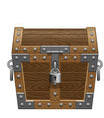
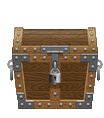
added transparent

diff --git a/main.qml b/main.qml
@@ -16,6 +16,7 @@ ApplicationWindow {
         source: "qrc:/images/stark.png"
         name: "Stark"
         motto: "Winter is Coming"
+        width: mainWindow.width /4.5
     }
     FactionToken
     {
@@ -23,6 +24,7 @@ ApplicationWindow {
         source: "qrc:/images/baratheon.png"
         name: "Baratheon"
         motto: "Ours is the Fury"
+        width: mainWindow.width /4.5
     }
     FactionToken
     {
@@ -30,6 +32,7 @@ ApplicationWindow {
         source: "qrc:/images/greyJoy.png"
         name: "Greyjoy"
         motto: "We Do Not Sow"
+        width: mainWindow.width /4.5
     }
     FactionToken
     {
@@ -37,13 +40,15 @@ ApplicationWindow {
         source: "qrc:/images/Tyrell.png"
         name: "Tyrell"
         motto: "Growing Strong"
+        width: mainWindow.width /4.5
     }
     FactionToken
     {
         id: lanister
-        source: "qrc:/images/lanister.png"
+        source: "qrc:/images/lannister.png"
         name: "Lannister"
         motto: "Hear Me Roar"
+        width: mainWindow.width /4.5
     }
     FactionToken
     {
@@ -51,6 +56,7 @@ ApplicationWindow {
         source: "qrc:/images/martell.png"
         name: "Martell"
         motto: "Unbowed, Unbent, Unbroken"
+        width: mainWindow.width /4.5
     }
     //place holders
     Item
